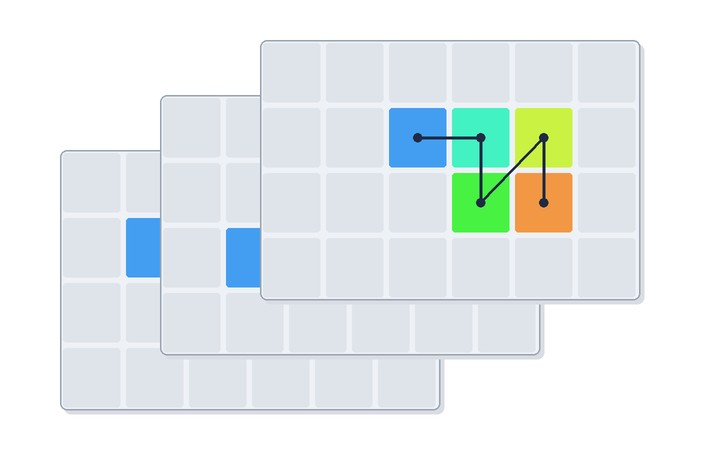
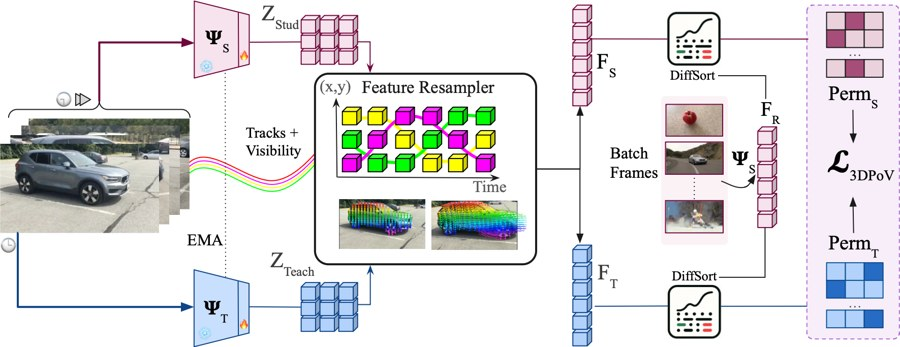
Use method figures for DISCOVR and 3DPoV; add code links
Claude-Session: https://claude.ai/code/session_01BL93qawRCQviztNJ2jcivC

diff --git a/index.html b/index.html
@@ -8,7 +8,7 @@
     <meta name="description" content="Mohammadreza Salehi - PhD@University of Amsterdam,Ex-Intern@Samsung AI Center Cambridge&GoogleDeepMind, Working on Self-Supervised Learning (SSL)">
     <meta name="keywords" content="Mohammadreza Salehi, PhD Student, QUVA Lab, University of Amsterdam, ELLIS PhD program, self-supervised learning, video data analysis, machine learning safety, unsupervised object detection, semantic segmentation, outlier detection, AI systems, diffusion models, video-editing, flow-matching">
     <title>Mohammadreza Salehi</title>
-    <link rel="stylesheet" href="style.css?v=20260925">
+    <link rel="stylesheet" href="style.css?v=20260925b">
 </head>
 <body>
     <header>
@@ -83,6 +83,7 @@
                     <p><em>ICML, 2026</em></p>
                     <div class="publication-links">
                         <a href="https://openreview.net/pdf?id=zLtG2yfRKA">PDF</a>
+                        <a href="https://github.com/Ioana-Simion/3DPoV">CODE</a>
                     </div>
                 </div>
             </div>
@@ -121,6 +122,7 @@
                     <p><em>NeurIPS, 2025</em></p>
                     <div class="publication-links">
                         <a href="https://arxiv.org/abs/2506.11777">PDF</a>
+                        <a href="https://github.com/mdivyanshu97/DISCOVR">CODE</a>
                     </div>
                 </div>
             </div>
